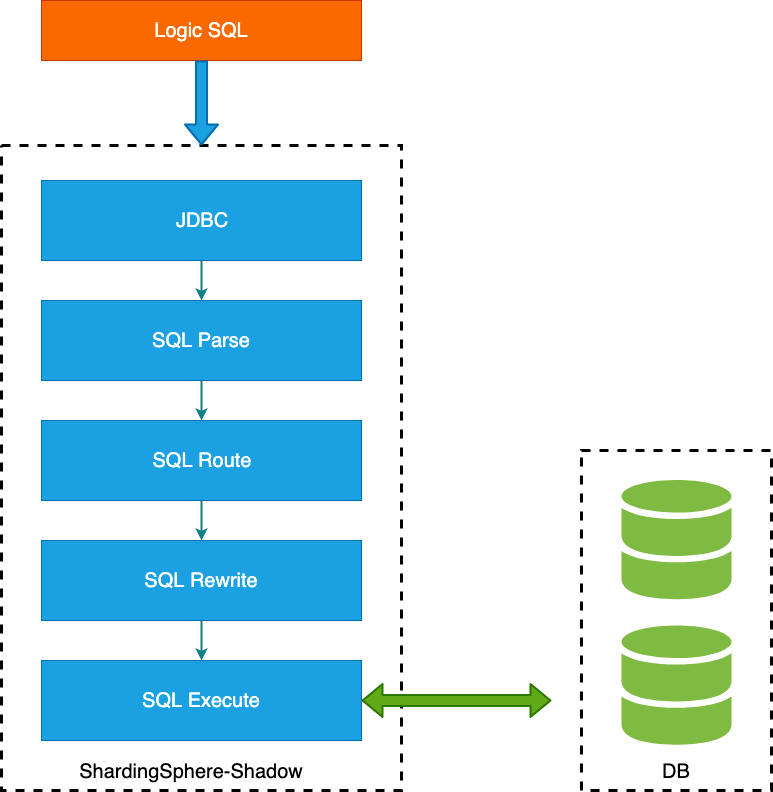
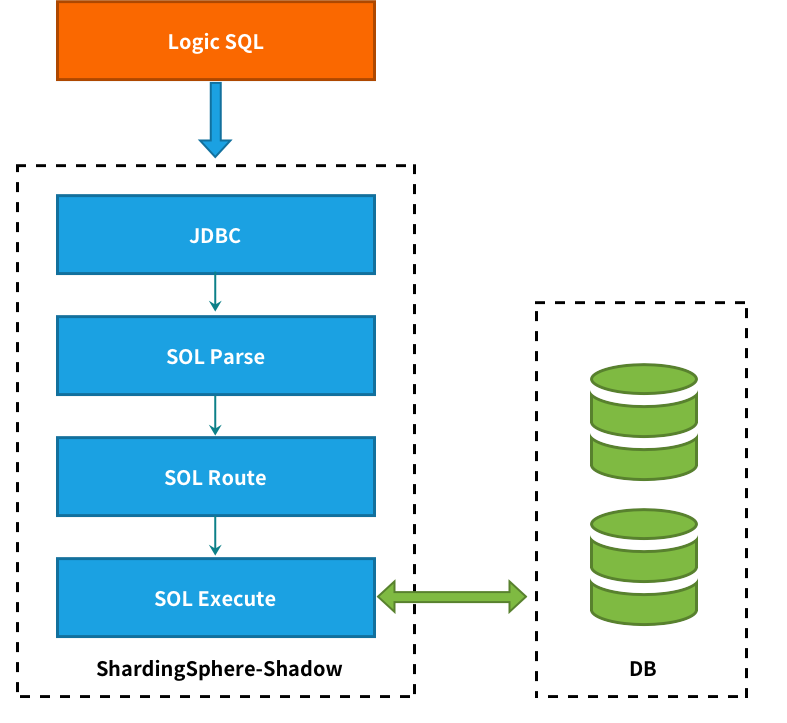
Update shadow docs (#12993)

diff --git a/docs/document/content/features/shadow/principle.cn.md b/docs/document/content/features/shadow/principle.cn.md
@@ -4,28 +4,145 @@ title = "实现原理"
 weight = 2
 +++
 
-### 整体架构
+## 整体架构
 
-Apache ShardingSphere 通过解析 SQL，根据配置文件中用户设置的影子规则，对传入的 SQL 进行路由并改写，删除影子字段与字段值。用户无需关注具体过程，
-使用时仅对 SQL 进行相应改造，添加影子字段与相应的配置即可。
+Apache ShardingSphere 通过解析 SQL，对传入的 SQL 进行影子判定，根据配置文件中用户设置的影子规则，路由到生产库或者影子库。
 
 ![执行流程](https://shardingsphere.apache.org/document/current/img/shadow/execute.png)
 
-### 影子规则
+## 影子规则
 
-影子规则包含影子字段及映射关系。
+影子规则包含影子数据源映射关系，影子表以及影子算法。
 
 ![规则](https://shardingsphere.apache.org/document/current/img/shadow/rule_cn.png)
 
-### 处理过程
+## 路由过程
 
 以 INSERT 语句为例，在写入数据时，Apache ShardingSphere 会对 SQL 进行解析，再根据配置文件中的规则，构造一条路由链。在当前版本的功能中，
 影子功能处于路由链中的最后一个执行单元，即，如果有其他需要路由的规则存在，如分片，Apache ShardingSphere 会首先根据分片规则，路由到某一个数据库，再
-执行影子路由，将影子数据路由到与之对应的影子库，生产数据则维持不变。
+执行影子路由判定流程，判定执行SQL满足影子规则的配置，数据路由到与之对应的影子库，生产数据则维持不变。
 
-接着对 SQL 进行改写，由于影子字段为逻辑字段，在数据库中实际不存在，所以在改写过程中会删除这个字段及其对应的参数。
+## 影子判定流程
+影子库开关开启时，会对执行的 SQL 语句进行影子判定。影子判定目前支持两种类型算法，用户可根据实际业务需求选择一种或者组合使用。
 
-DML 语句的处理过程同理，对于非 DML 语句，如创建数据表等，会在生产数据库与影子数据库分别执行。
+### DML 语句
 
-![sql过程](https://shardingsphere.apache.org/document/current/img/shadow/sql.png)
+支持两种算法。影子判定会首先判断执行 SQL 关联的表是否和影子表有交集。如果有交集，对交集部分影子表关联的影子算法依次判定。如果影子表关联影子算法有任何一个判定成功。SQL 语句路由到影子库。
+没有交集或者影子算法判定不成功，SQL 语句路由到生产库。
 
+举例说明，一个电商网站要对下单业务进行压测，对订单表 `t_order` 进行压测。生产数据执行到生产库，即：ds。测试数据执行到影子库，即：ds-shadow。
+
+1. 使用列影子算法
+
+假设 `t_order` 表中包含字段下单用户ID的 `user_id`。 如果实现的效果，当用户ID为 `0` 的用户创建订单产生的数据，即：`INSERT INTO t_order (order_id, user_id, ...) VALUES (xxx..., 0, ...)` 会执行到影子库，其他数据执行到生产库。
+
+建议配置如下（YAML 格式展示）：
+
+```yaml
+enable: true
+  data-sources:
+    shadow-data-source:
+      source-data-source-name: ds
+      shadow-data-source-name: ds-shadow
+tables:
+  t_order:
+    data-source-names: shadow-data-source
+    shadow-algorithm-names:
+      - user-id-match-algorithm
+shadow-algorithms:
+  user-id-match-algorithm:
+    type: COLUMN_REGEX_MATCH
+    props:
+      operation: insert
+      column: user_id
+      regex: "[0]"
+```
+无需修改任何 SQL 或者代码，只需要对压力测试的数据进行控制就可以实现在线的压力测试。
+
+2. 使用注解影子算法
+
+假设 `t_order` 表中没有存储可以对值进行控制的列。或者控制的值不包含在执行 SQL 的中。可以添加一条注解到执行的 SQL 中，即：`SELECT * FROM t_order WHERE order_id = xxx /*shadow:true,foo:bar,...*/`  会执行到影子库。
+
+建议配置如下（YAML 格式展示）：
+
+```yaml
+enable: true
+  data-sources:
+    shadow-data-source:
+      source-data-source-name: ds
+      shadow-data-source-name: ds-shadow
+tables:
+  t_order:
+    data-source-names: shadow-data-source
+    shadow-algorithm-names:
+      - simple-note-algorithm
+shadow-algorithms:
+  simple-note-algorithm:
+    type: SIMPLE_NOTE
+    props:
+      shadow: true
+      foo: bar
+      
+props:
+  sql-comment-parse-enabled: true
+```
+注意：使用注解影子算法，需配合开起 SQL 注解解析。
+
+### 3. 混用模式
+
+假设对 `t_order` 表压测以上两种场景都需要覆盖。即，`INSERT INTO t_order (order_id, user_id, ...) VALUES (xxx..., 0, ...)` 和 `SELECT * FROM t_order WHERE order_id = xxx /*shadow:true,foo:bar,...*/` 都执行到影子库。
+
+建议配置如下（YAML 格式展示）：
+
+```yaml
+enable: true
+  data-sources:
+    shadow-data-source:
+      source-data-source-name: ds
+      shadow-data-source-name: ds-shadow
+tables:
+  t_order:
+    data-source-names: shadow-data-source
+    shadow-algorithm-names:
+      - user-id-match-algorithm
+      - simple-note-algorithm
+shadow-algorithms:
+  user-id-match-algorithm:
+    type: COLUMN_REGEX_MATCH
+    props:
+      operation: insert
+      column: user_id
+      regex: "[0]"
+  simple-note-algorithm:
+    type: SIMPLE_NOTE
+    props:
+      shadow: true
+      foo: bar
+      
+props:
+  sql-comment-parse-enabled: true
+```
+对复杂场景压力测试支持度高。
+
+### DDL 语句
+
+仅支持影子算法。一般不会对 DDL 语句的压力测试。主要为影子库环境的初始化或者影子表调整时执行。
+
+影子判定会首先判断执行 SQL 是否包含注解，如果包含注解对影子规则中的注解影子算法依次判定。如果注解影子算法有任何一个判定成功。SQL 语句路由到影子库。
+没有 SQL 不包含注解或者注解影子算法判定不成功，路由到生产库。
+
+假设需要在影子库创建 `t_order` 表。即：`CREATE TABLE t_order (order_id INT(11) primary key, user_id int(11) not null, ...) /*shadow:true,foo:bar,...*/` 执行到影子库。
+
+影子规则配置只需包含（YAML 格式展示）：
+
+```yaml
+shadow-algorithms:
+  simple-note-algorithm:
+    type: SIMPLE_NOTE
+    props:
+      shadow: true
+      foo: bar
+      
+props:
+  sql-comment-parse-enabled: true
+```

diff --git a/docs/document/content/features/shadow/principle.en.md b/docs/document/content/features/shadow/principle.en.md
@@ -4,5 +4,24 @@ title = "Principle"
 weight = 2
 +++
 
+## Overall Architecture
+
 TODO
 
+## Shadow Rule
+
+TODO
+
+## Routing Process
+
+TODO
+
+## Shadow Judgment Process
+
+### DML Statement
+
+TODO
+
+### DDL Statement
+
+TODO

diff --git a/docs/document/content/features/shadow/concept.cn.md b/docs/document/content/features/shadow/concept.cn.md
@@ -4,6 +4,10 @@ title = "核心概念"
 weight = 1
 +++
 
+## 影子库开关
+
+影子库开关。压力测试是一个特定时段的需求，在需要时开启即可。
+
 ## 生产数据库
 
 生产数据使用的数据库。
